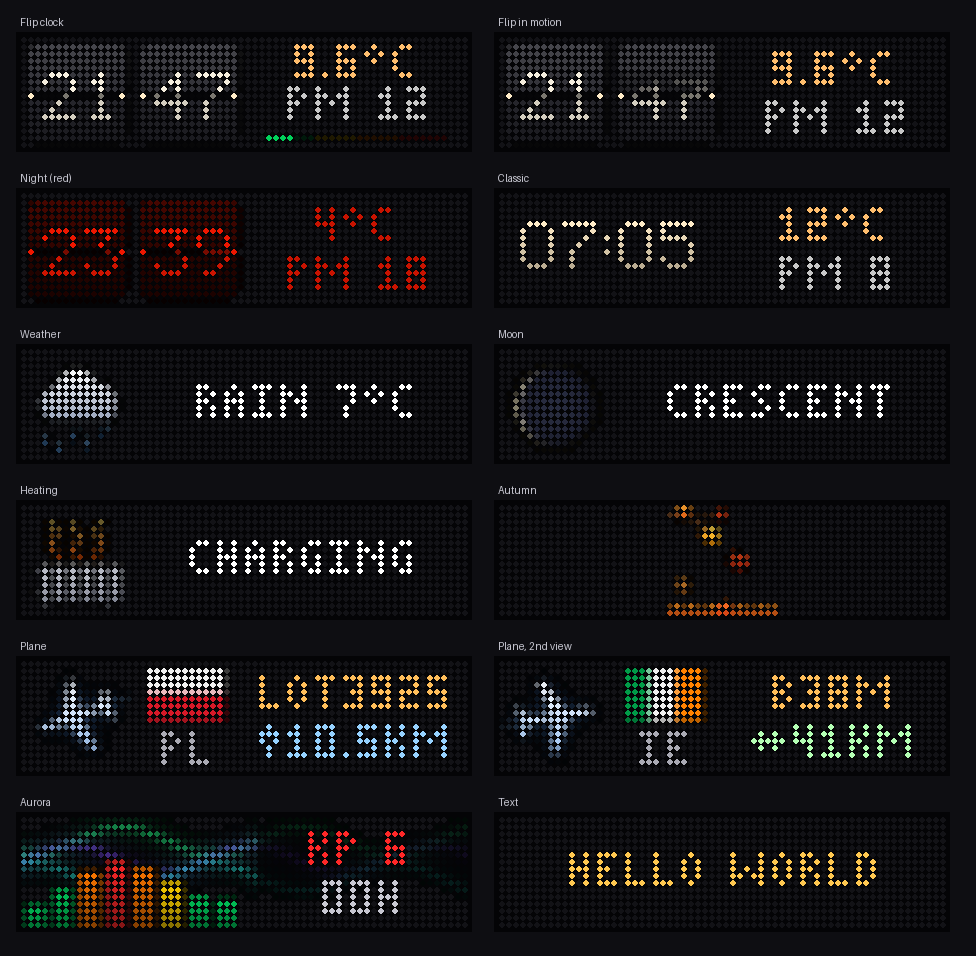
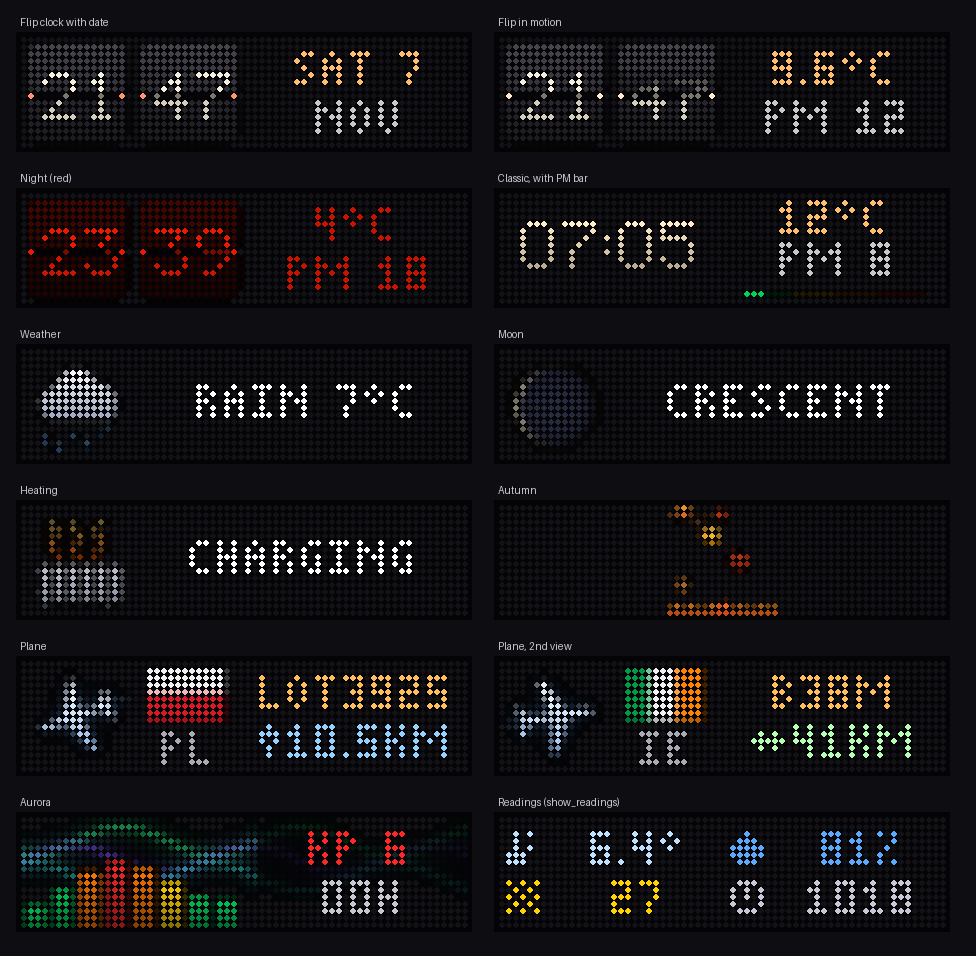
Add show_readings action and a 64x16 clock-with-date example
show_readings draws up to four readings (temperature, humidity, PM2.5,
PM10, pressure) with small icons, coloured by level: a 2x2 grid on
64x16, four rows on 32x32. examples/led_panel_wide.yaml uses a wide
panel as a second clock with the date, alternating with the readings.

Claude-Session: https://claude.ai/code/session_0126mxnvaX8dHVpu6rpKB9fY

diff --git a/custom_components/bk_light_panel/readings.py b/custom_components/bk_light_panel/readings.py
@@ -1,0 +1,91 @@
+"""Readings screen: up to four values with small icons, coloured by level.
+
+64x16: a 2x2 grid. 32x32: four rows. No Home Assistant imports.
+"""
+
+from __future__ import annotations
+
+from PIL import Image
+
+from .render import CHAR_GAP, _glyph, text_width
+
+RGB = tuple[int, int, int]
+
+# 5x5 icons
+ICONS: dict[str, tuple[str, ...]] = {
+    "temperature": (".#.#.", ".#...", ".#.#.", "###..", "###.."),
+    "humidity": ("..#..", ".###.", "#####", "#####", ".###."),
+    "pm25": ("#.#.#", ".#.#.", "#.#.#", ".#.#.", "#.#.#"),
+    "pm10": ("#...#", "..#..", "#...#", "..#..", "#...#"),
+    "pressure": (".###.", "#.#.#", "#.#.#", "#...#", ".###."),
+}
+ORDER = ("temperature", "humidity", "pm25", "pm10", "pressure")
+
+
+def _level(value: float, limits: tuple[float, ...], colors: tuple[RGB, ...]) -> RGB:
+    for limit, color in zip(limits, colors):
+        if value < limit:
+            return color
+    return colors[-1]
+
+
+AIR = ((0, 220, 90), (255, 210, 0), (255, 120, 0), (255, 30, 30))
+
+
+def color_for(kind: str, value: float) -> RGB:
+    if kind == "temperature":
+        return _level(value, (0, 10, 20, 28),
+                      ((110, 170, 255), (190, 225, 255), (255, 235, 170), (255, 170, 60), (255, 70, 40)))
+    if kind == "humidity":
+        return (90, 170, 255)
+    if kind == "pm25":
+        return _level(value, (15, 35, 55), AIR)
+    if kind == "pm10":
+        return _level(value, (25, 50, 80), AIR)
+    return (200, 200, 215)
+
+
+def text_for(kind: str, value: float) -> str:
+    if kind == "temperature":
+        return f"{value:.0f}°" if abs(value) >= 10 else f"{value:.1f}°"
+    if kind == "humidity":
+        return f"{value:.0f}%"
+    return f"{value:.0f}"
+
+
+def _draw(pixels, size, x: int, y: int, kind: str, value: float | None, width: int) -> None:
+    w, h = size
+    known = value is not None
+    color = color_for(kind, value) if known else (120, 120, 120)
+    for ry, row in enumerate(ICONS[kind]):
+        for rx, pixel in enumerate(row):
+            if pixel == "#":
+                pixels[x + 1 + rx, y + ry] = color
+    text = text_for(kind, value) if known else "--"
+    tx = x + 7 + max(0, (width - 7 - text_width(text)) // 2)
+    for char in text:
+        rows = _glyph(char)
+        for ry, row in enumerate(rows):
+            for rx, pixel in enumerate(row):
+                if pixel == "#" and tx + rx < min(w, x + width) and y + ry < h:
+                    pixels[tx + rx, y + ry] = color
+        tx += len(rows[0]) + CHAR_GAP
+
+
+def render_readings(values: dict[str, float | None], size: tuple[int, int] = (32, 32)) -> Image.Image:
+    """values: kind -> number (None = unavailable); at most four are shown, in ORDER."""
+    image = Image.new("RGB", size, (0, 0, 0))
+    pixels = image.load()
+    kinds = [k for k in ORDER if k in values][:4]
+    if size == (64, 16):
+        cells = [(0, 2), (32, 2), (0, 9), (32, 9)]
+        width = 32
+        if len(kinds) <= 2:
+            cells = [(0, 5), (32, 5)]
+    else:
+        top = (size[1] - (len(kinds) * 7 - 2)) // 2
+        cells = [(4, top + i * 7) for i in range(4)]
+        width = size[0] - 8
+    for kind, (x, y) in zip(kinds, cells):
+        _draw(pixels, size, x, y, kind, values[kind], width)
+    return image

diff --git a/custom_components/bk_light_panel/__init__.py b/custom_components/bk_light_panel/__init__.py
@@ -51,6 +51,7 @@ from .aircraft import pick_nearest, render_aircraft
 from .aurora import DEFAULT_URL as AURORA_URL, OVATION_URL, next_hours, ovation_at, render_aurora, summary
 from .icons import ANIMATED, LANGUAGES, language_for, render_icon, season_for
 from .panel import BkLightPanel
+from .readings import ORDER as READING_KINDS, render_readings
 from .wide import (
     is_wide,
     render_aircraft_wide,
@@ -152,6 +153,14 @@ SHOW_AURORA_SCHEMA = vol.Schema(
         vol.Optional("show", default=True): cv.boolean,
         vol.Optional(ATTR_DURATION, default=8): vol.All(vol.Coerce(float), vol.Range(0, 60)),
         vol.Optional("frame_interval", default=1.5): vol.All(vol.Coerce(float), vol.Range(0, 10)),
+        vol.Optional("tint"): vol.Any(None, COLOR),
+    }
+)
+SHOW_READINGS_SCHEMA = vol.Schema(
+    {
+        **BASE,
+        # numbers (or unavailable / unknown, shown as --)
+        **{vol.Optional(kind): vol.Any(None, cv.string, vol.Coerce(float)) for kind in READING_KINDS},
         vol.Optional("tint"): vol.Any(None, COLOR),
     }
 )
@@ -408,6 +417,27 @@ async def async_setup(hass: HomeAssistant, config: ConfigType) -> bool:
         )
         return {"shown": True, **info}
 
+    async def show_readings(call: ServiceCall) -> None:
+        """Temperature, humidity, PM2.5, PM10, pressure with icons (max four)."""
+        panel = _panel_for(hass, call)
+        size = await panel.async_get_size()
+        values: dict[str, float | None] = {}
+        for kind in READING_KINDS:
+            if kind not in call.data:
+                continue
+            try:
+                values[kind] = float(call.data[kind])
+            except (TypeError, ValueError):
+                values[kind] = None
+        if not values:
+            raise ServiceValidationError("Give at least one reading, e.g. temperature: 9.6")
+        png = await hass.async_add_executor_job(
+            lambda: to_png(apply_tint(render_readings(values, size), call.data.get("tint")),
+                           call.data[ATTR_BRIGHTNESS])
+        )
+        await panel.async_send_png(png)
+
+    hass.services.async_register(DOMAIN, "show_readings", show_readings, SHOW_READINGS_SCHEMA)
     hass.services.async_register(
         DOMAIN, "show_aurora", show_aurora, SHOW_AURORA_SCHEMA,
         supports_response=SupportsResponse.OPTIONAL,

diff --git a/tests/test_core.py b/tests/test_core.py
@@ -454,3 +454,14 @@ def test_wide_captions_fit():
         for name in ("moon", "heating", "spring", "summer", "autumn", "winter"):
             caption = wide.auto_caption(name, lang)
             assert caption and render.text_width(caption) <= 46, (lang, caption)
+
+
+def test_readings_both_sizes():
+    readings = _load("readings")
+    values = {"temperature": -12.3, "humidity": 81.0, "pm25": 88.0, "pressure": None}
+    for size in ((64, 16), (32, 32)):
+        image = readings.render_readings(values, size)
+        assert image.size == size and image.getbbox() is not None
+    assert readings.text_for("temperature", 6.14) == "6.1°"
+    assert readings.text_for("temperature", -12.3) == "-12°"
+    assert readings.color_for("pm25", 88) == (255, 30, 30)

diff --git a/README.md b/README.md
@@ -83,6 +83,9 @@ flight-board line (plane on its track, flag, callsign / type, altitude / distanc
 the aurora shows the Kp bars with the peak hour. With several panels, name the one you
 mean with `panel:`.
 
+[`examples/led_panel_wide.yaml`](examples/led_panel_wide.yaml) turns a 64×16 panel into a
+second clock with the date, alternating every minute with the outdoor readings.
+
 ![64x16 layouts](images/wide_panel.png)
 
 ## Actions
@@ -97,6 +100,7 @@ or address.
 | `bk_light_panel.show_icon` | Built-in picture (weather state, `moon`, `season`, `autumn`…`summer`, `smog`, `heating`), `caption`, `duration`, `frame_interval` |
 | `bk_light_panel.show_nearest_aircraft` | Closest plane from your ADS-B `aircraft.json` (`url`, `max_distance`); returns the plane's data |
 | `bk_light_panel.show_aurora` | NOAA Kp forecast for the next 24 h; `min_kp`, `show: false` = only return the data |
+| `bk_light_panel.show_readings` | Up to four readings with icons, coloured by level: `temperature`, `humidity`, `pm25`, `pm10`, `pressure` |
 | `bk_light_panel.show_image` | Your own picture file (must be in an allowed folder, e.g. `/config/www`) |
 | `bk_light_panel.fill` / `clear` | One colour / black |
 

diff --git a/CHANGELOG.md b/CHANGELOG.md
@@ -6,6 +6,10 @@
   text lines beside it, pictures with the caption beside them, a flight-board line for
   the nearest plane, Kp bars with the peak for the aurora. Text, fill and your own
   images use the full 64×16. Existing 32×32 setups are unchanged.
+- New action `show_readings`: temperature, humidity, PM2.5, PM10 and pressure with small
+  icons, each coloured by level (2×2 grid on 64×16, four rows on 32×32).
+- Example package `examples/led_panel_wide.yaml`: a 64×16 panel as a second clock with
+  the date, alternating with the outdoor readings, red at night.
 
 ## 0.8.1
 - Fix: the panel's stored phone-app animations flashed up briefly every 30th frame
